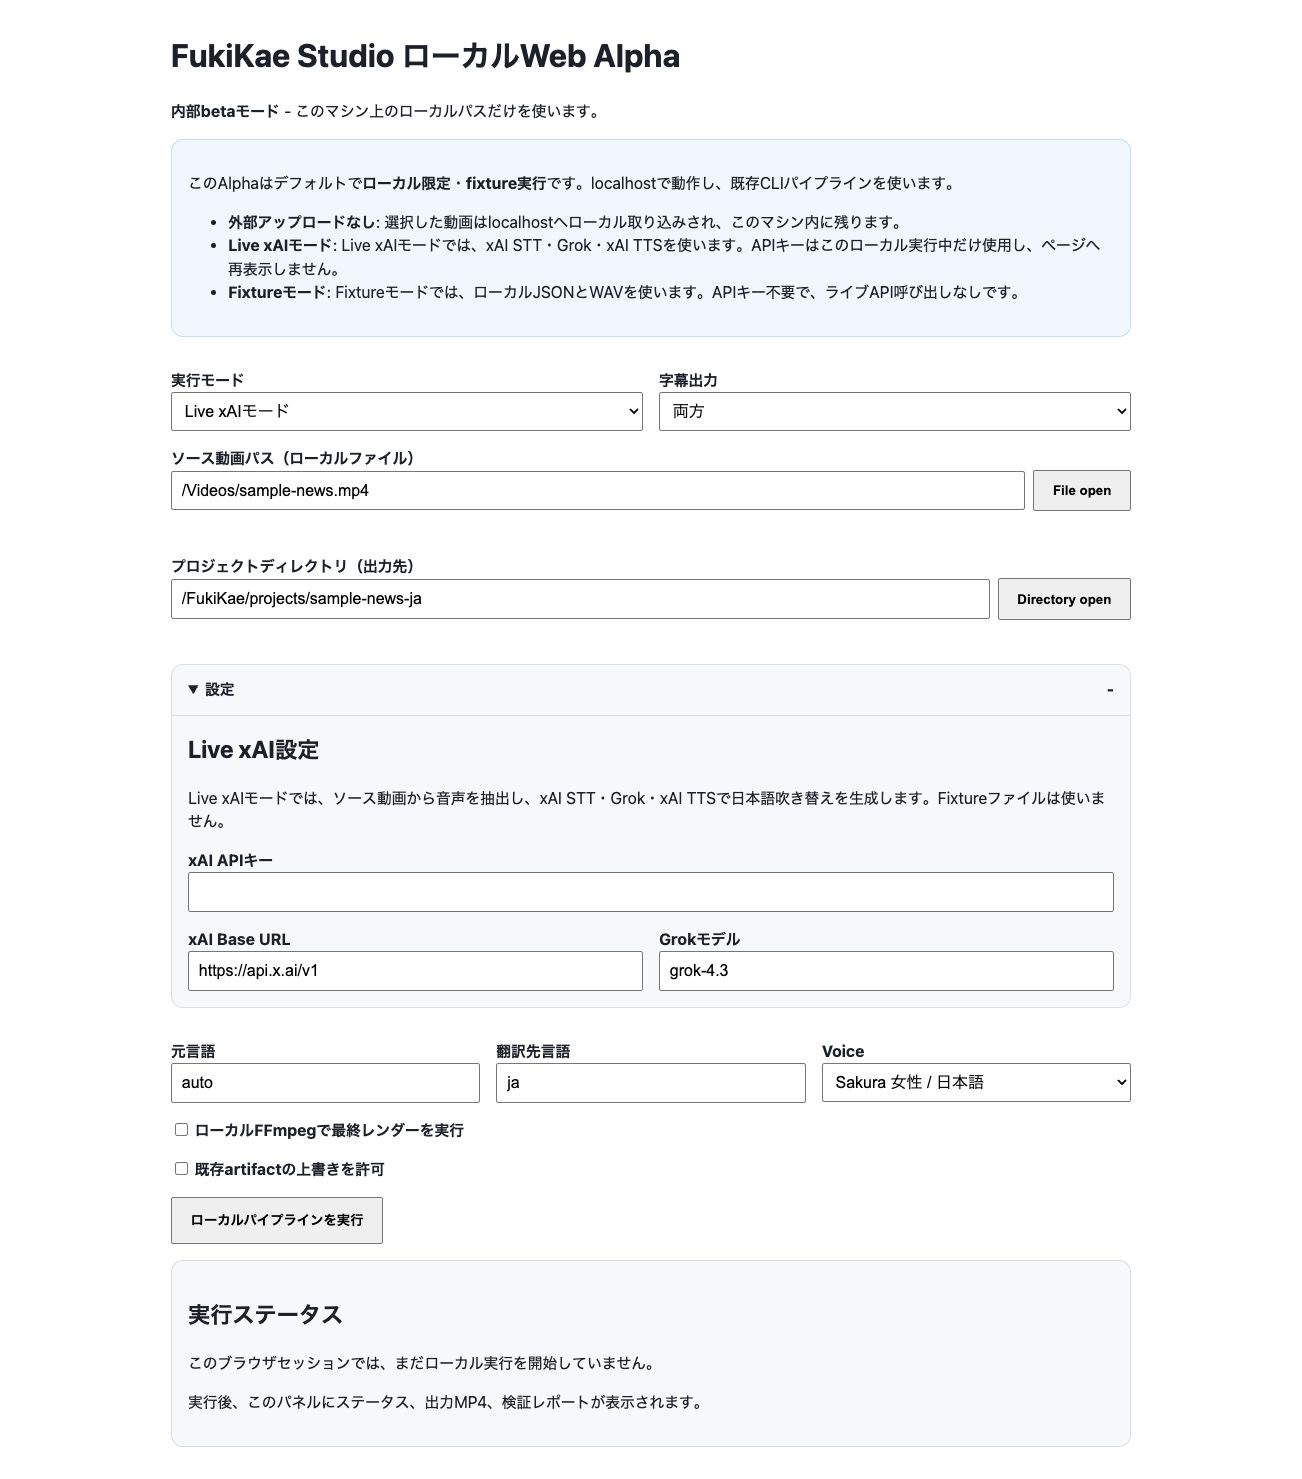
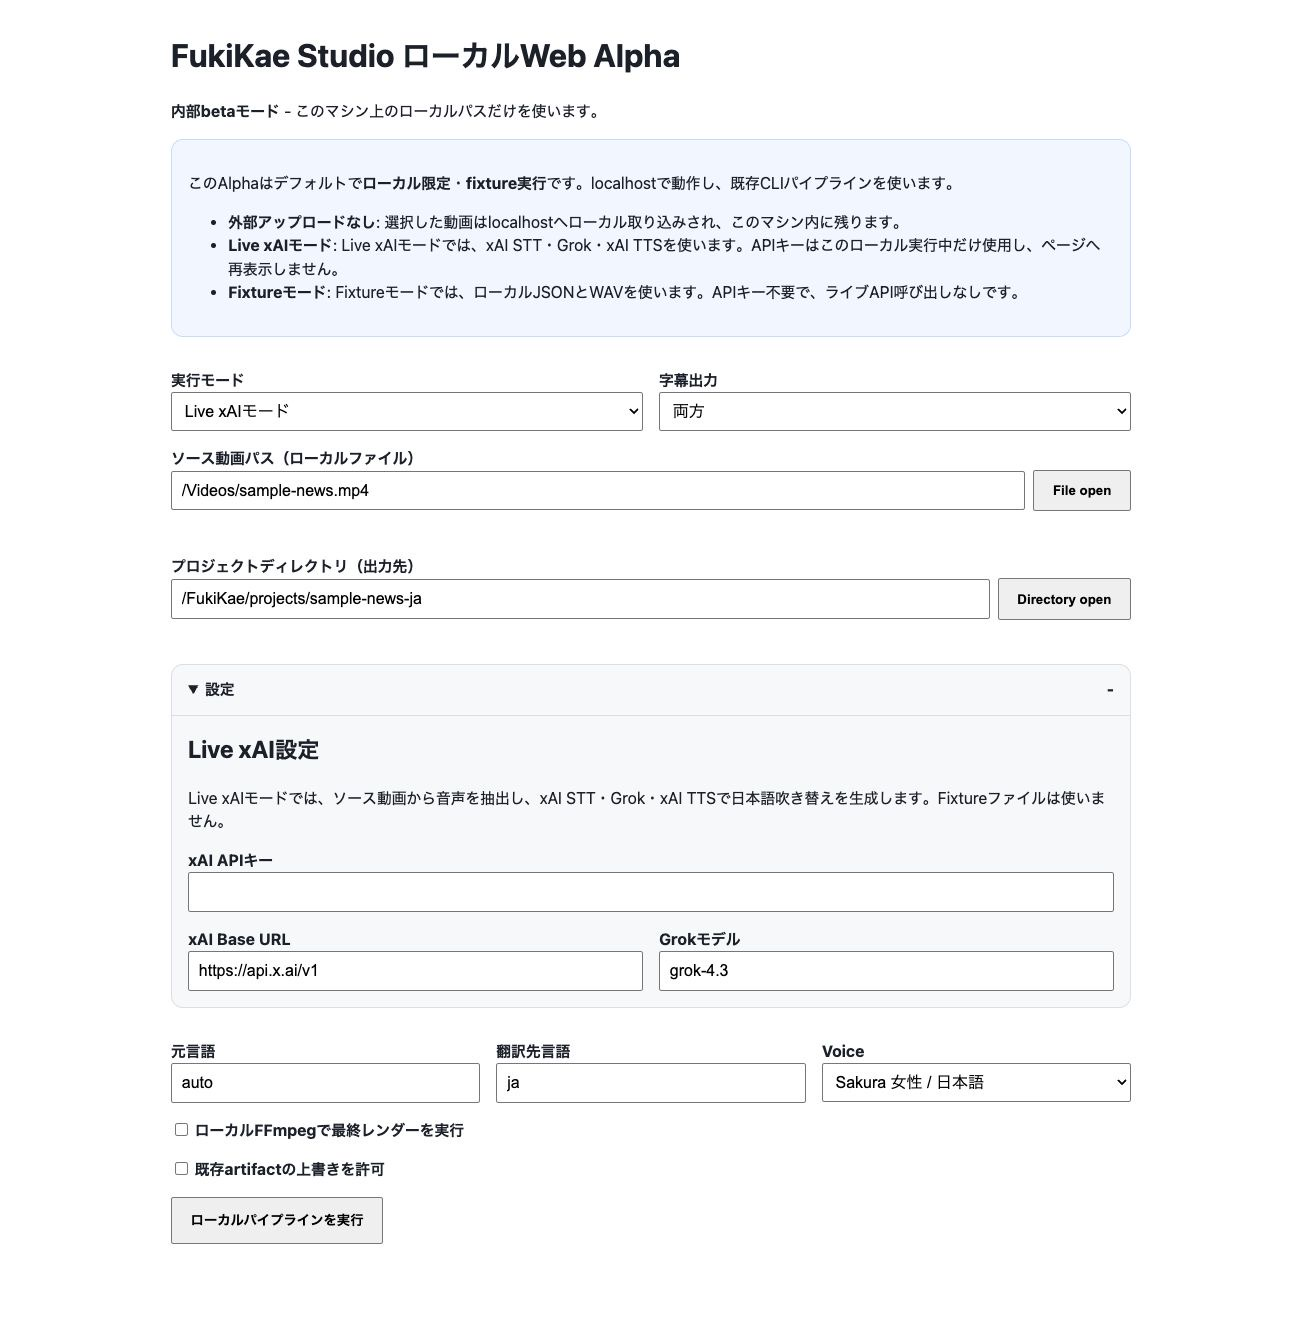
Hide empty studio status panel

diff --git a/src/fukikae_studio/web/studio.py b/src/fukikae_studio/web/studio.py
@@ -606,11 +606,7 @@ def _render_result(result: Mapping[str, object]) -> str:
 
 
 def _render_empty_result() -> str:
-    return """<section class="result">
-  <h2>実行ステータス</h2>
-  <p>このブラウザセッションでは、まだローカル実行を開始していません。</p>
-  <p>実行後、このパネルにステータス、出力MP4、検証レポートが表示されます。</p>
-</section>"""
+    return ""
 
 
 def _default(defaults: Mapping[str, object], key: str, fallback: str = "") -> str:

diff --git a/tests/test_studio_server.py b/tests/test_studio_server.py
@@ -75,6 +75,8 @@ def test_render_studio_home_exposes_local_fixture_backed_controls():
     assert "このローカル実行中だけ使用" in html
     assert 'name="execute_ffmpeg"' in html
     assert "work/local-smoke/source.mp4" in html
+    assert "実行ステータス" not in html
+    assert "まだローカル実行を開始していません" not in html
 
 
 def test_render_studio_home_never_echoes_xai_api_key_defaults():
